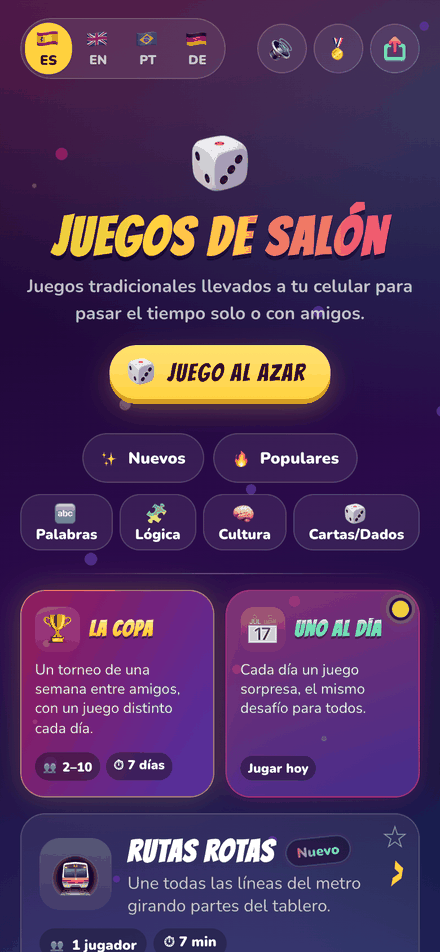
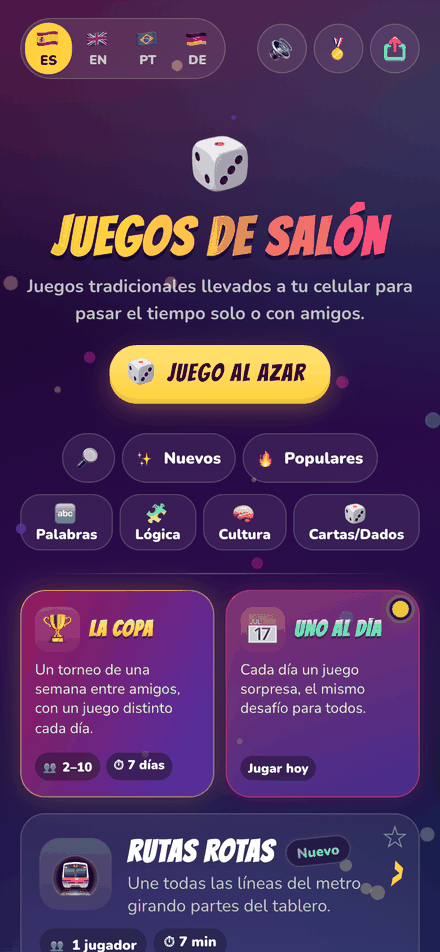
Docs for D-403: search out of the lab in README, decisions, e2e guide and home screenshots

diff --git a/README.md b/README.md
@@ -682,6 +682,7 @@ node public/assets/js/llegada.test.mjs
 node public/assets/js/parametros.test.mjs
 node public/assets/js/push.test.mjs
 node public/assets/js/records.test.mjs
+node public/assets/js/search.test.mjs
 node public/assets/js/splash.test.mjs
 node public/assets/js/transport/best-effort.test.mjs
 node public/assets/js/transport/cleanup.test.mjs
@@ -699,7 +700,6 @@ node public/cup/planilla.test.mjs
 node public/cup/reportes.test.mjs
 node public/cup/store.test.mjs
 node public/labs/code/engine-palabra.test.mjs
-node public/labs/home/search.test.mjs
 node public/panel/adapta.test.mjs
 node public/panel/aggregate.test.mjs
 node public/panel/copas.test.mjs
@@ -841,7 +841,7 @@ public/                     The site (juegosdesalon.cl/): the only folder that g
   today/                      One a Day: today's game, your streak, a calendar and how you do in each game (D-230)
   panel/                      Private owner dashboard by domain: summary, group, individual, The Cup, Uno al día, users, traffic and health, with a page per cup, game and room; dominios.js holds the pure accounts (Google sign-in; see docs/PANEL.md)
   assets/css/                 Shared styles: base.css (party theme), linea.css (timeline), teclado.css (keypad), ranking.css (leaderboards)
-  assets/js/                  Shared modules: games.js (game registry), i18n.js (ES/EN/PT/DE), labs-idioma.js (a new language in the lab, D-191), labs-puerta.js (the lab's door: without a key from the owner, one per person, /labs/ sends you to the menu, D-281, D-284), lab-access.js (whether this visitor holds a lab key: what is in development turns on only for them, D-395), ui.js, sound.js, compartir.js (everything shared, D-165), parametros.js (the URL parameters, in English, with the old Spanish names as aliases, D-266), compartir-portada.js (the home-page share sheet, with the promo video, in the languages that have one, D-253, D-254), handoff.js, chat.js, session.js, arrastre.js (drag and drop), teclado.js, cuenta-regresiva.js (the 3, 2, 1, Let's go! before playing, shared by the Cup and the lab, D-105), azar.js, dado3d.js and llegada.js (Random game: the die, which stays on screen until the game is drawn, D-237), frases.js, records.js + jugador.js + ranking.js (players and leaderboards, D-212; jugador-firebase.js and jugador-local.js are their stores), instalable.js (registers the service worker, D-221), instalar.js (the home-page bubble that invites to add the app to the home screen, D-232), favoritos.js (the home-page favorites, kept in the browser, D-238), push.js + vapid.js (phone notifications: subscribing, D-223), uno-al-dia.js + uno-al-dia-ui.js + uno-al-dia-red.js + uno-al-dia-avisos.js (One a Day: a daily game, the same for everyone, with a streak, freezes, leaderboards, invitations and reminders; D-230), fin.js (the exits of every result screen, the same words in every game, C-19, D-343), notification-sheets.js (the texts of the sheets that help turn notifications on, shared by the Cup and One a Day, D-377), rng.js (the seeded random generator every deck, board and day comes from, D-378), buzon.js + buzon-form.js (the "💬 Sugerencias y comentarios" inbox at the end of every game and in the home footer; the form loads only on tap, D-341), splash.js (the promotional window over the home page, one campaign at a time and off by default, turned on with tools/agents/splash.mjs, D-351), and vigia.js, a classic script (not a module) that every page loads first to report load failures, errors and start-up time to the dashboard (D-251)
+  assets/js/                  Shared modules: games.js (game registry), i18n.js (ES/EN/PT/DE), labs-idioma.js (a new language in the lab, D-191), labs-puerta.js (the lab's door: without a key from the owner, one per person, /labs/ sends you to the menu, D-281, D-284), lab-access.js (whether this visitor holds a lab key: what is in development turns on only for them, D-395), ui.js, sound.js, compartir.js (everything shared, D-165), parametros.js (the URL parameters, in English, with the old Spanish names as aliases, D-266), compartir-portada.js (the home-page share sheet, with the promo video, in the languages that have one, D-253, D-254), handoff.js, chat.js, session.js, arrastre.js (drag and drop), teclado.js, cuenta-regresiva.js (the 3, 2, 1, Let's go! before playing, shared by the Cup and the lab, D-105), azar.js, dado3d.js and llegada.js (Random game: the die, which stays on screen until the game is drawn, D-237), frases.js, records.js + jugador.js + ranking.js (players and leaderboards, D-212; jugador-firebase.js and jugador-local.js are their stores), instalable.js (registers the service worker, D-221), instalar.js (the home-page bubble that invites to add the app to the home screen, D-232), favoritos.js (the home-page favorites, kept in the browser, D-238), push.js + vapid.js (phone notifications: subscribing, D-223), uno-al-dia.js + uno-al-dia-ui.js + uno-al-dia-red.js + uno-al-dia-avisos.js (One a Day: a daily game, the same for everyone, with a streak, freezes, leaderboards, invitations and reminders; D-230), fin.js (the exits of every result screen, the same words in every game, C-19, D-343), notification-sheets.js (the texts of the sheets that help turn notifications on, shared by the Cup and One a Day, D-377), rng.js (the seeded random generator every deck, board and day comes from, D-378), buzon.js + buzon-form.js (the "💬 Sugerencias y comentarios" inbox at the end of every game and in the home footer; the form loads only on tap, D-341), splash.js (the promotional window over the home page, one campaign at a time and off by default, turned on with tools/agents/splash.mjs, D-351), search.js (the home page's 🔎 search: a pill in the filter row that opens a field and a dropdown of games, found by name, tagline or keyword, D-387, D-390, out of the lab for everyone in D-403), and vigia.js, a classic script (not a module) that every page loads first to report load failures, errors and start-up time to the dashboard (D-251)
   assets/js/transport/        Transports: local (same phone), firebase (room) and stats (usage signals), with the room's helpers: errors.js (waiting for the connection, timeouts and error texts), ratelimit.js (rooms per phone, D-41), cleanup.js (expired rooms, D-39), dispose.js (leaving on purpose, D-50) and best-effort.js (the writes nobody waits for, so a resend after a reconnect is not a failure, D-320)
   assets/og/                  The 1200×630 images shown when a link is shared
   manifest.webmanifest        PWA manifest (installable on the home screen), one per language (manifest.en.webmanifest …) so the app is named in the player's language (D-222); its PNG icons are in assets/icons/

diff --git a/tools/e2e/README.md b/tools/e2e/README.md
@@ -227,7 +227,7 @@ node tools/e2e/contact-sheet.mjs cuarto-rey --out /tmp/contact-sheet
 | `cup-games/languages.mjs` | La Copa's standalone games in all languages: each screen in `paths.mjs` against the Spanish one (D-199) |
 | `home/dice.mjs` | 🎲 Juego al azar with the 🎲 Cartas/Dados filter on: it still lands on games of every kind, and never on Cuarto Rey nor La Copa (D-188, D-374); back on the home page before the game loaded, no dice is left over it and 🎲 rolls at once (D-375) |
 | `home/lab.mjs` | The lab's three groups, with the home page experiments card folded in La Bodega, and the home page's experiments bar (D-361, D-363, D-369, D-372): `/labs/home/` landing on the real home page with the bar, the filters sticking on scroll, the language, no bar for players |
-| `home/search.mjs` | The home page's search, a lab experiment (`?search`, D-387, D-390, D-393, D-396): hidden for players, and without a lab key `?search` shows the plain home page (D-395); the 🔎 pill first in the filter row, left of ⭐ Favoritos (D-396), which fits at 320 px; tapped, the field takes that row; the dropdown names up to five games with the word that found them while the list stays put; "Ver los n juegos" filters the list; nothing found; ✕ brings the pills back; a suggestion opens its game; ↓ ↓ Enter opens the second suggestion, ↑ wraps to "see them all" and Enter filters, the mouse over an option selects it, and the first Escape folds the dropdown while the second closes the search |
+| `home/search.mjs` | The home page's search (D-387, D-390, D-393, D-396), for every player since D-403: shown without `?search` and without a lab key; the 🔎 pill first in the filter row, left of ⭐ Favoritos (D-396), which fits at 320 px; tapped, the field takes that row; the dropdown names up to five games with the word that found them while the list stays put; "Ver los n juegos" filters the list; nothing found; ✕ brings the pills back; a suggestion opens its game; ↓ ↓ Enter opens the second suggestion, ↑ wraps to "see them all" and Enter filters, the mouse over an option selects it, and the first Escape folds the dropdown while the second closes the search |
 | `home/popular.mjs` | What players see since D-369: the 🔥 Popular label on three cards (not La Copa nor "New", in German too), the ✨ Nuevos / 🔥 Populares chips above the types in four languages at 320 px and their filtering, ⭐ Favoritos in that row and centered, the app's name on the floating menu and its tap, the space under the floating filters, and the menu still floating after a tap on a short result until the player scrolls up (D-371) |
 | `splash/languages.mjs` | Every splash campaign in all languages: each one as `?splash=<id>` against the Spanish one (D-199, D-355; a campaign that is not on needs a lab key, which localhost always counts as, D-395) |
 

diff --git a/docs/DECISIONS.md b/docs/DECISIONS.md
@@ -432,10 +432,10 @@ Where today's rule is and which decisions explain it: those in force that still 
 | [D-384](decisions/D-384.md) | A game whose speed scores, and that has no countdown, shows the elapsed time | current |
 | [D-385](decisions/D-385.md) | Pips: the rule's diamond inside its cell, the zone lights up, and dominoes drag | current |
 | [D-386](decisions/D-386.md) | Pips: boards that do not all add up | current |
-| [D-387](decisions/D-387.md) | Home page search box, a lab experiment | amended by D-390 |
+| [D-387](decisions/D-387.md) | Home page search box, a lab experiment | amended by D-390, D-403 |
 | [D-388](decisions/D-388.md) | A change to the home page alone runs the home page's scripts, not the games' | amended by D-391 |
 | [D-389](decisions/D-389.md) | The home page's experiments, the splash among them, in one lab card with checkboxes | amended by D-399 |
-| [D-390](decisions/D-390.md) | The home page's search: a 🔎 pill and a dropdown of games | amended by D-393, D-396 |
+| [D-390](decisions/D-390.md) | The home page's search: a 🔎 pill and a dropdown of games | amended by D-393, D-396, D-403 |
 | [D-391](decisions/D-391.md) | The end-to-end scope never falls back to "everything" without a test saying so | amended by D-392 |
 | [D-392](decisions/D-392.md) | A push to a PR tests only what changed since the PR last passed | current |
 | [D-393](decisions/D-393.md) | The home page's search on a computer: ↓ ↑ Enter and Escape in the dropdown | current |

diff --git a/docs/decisions/D-387.md b/docs/decisions/D-387.md
@@ -1,5 +1,5 @@
 ## D-387 · Home page search box, a lab experiment
-**Date:** 2026-10-20 · **Status:** amended by D-390 · **Relation:** extends D-363 (a new switch on the home page's lab bar) · **Topics:** home
+**Date:** 2026-10-20 · **Status:** amended by D-390, D-403 · **Relation:** extends D-363 (a new switch on the home page's lab bar) · **Topics:** home
 **Context:** the owner asked to try, in the lab, a search bar on the home page that loads results while
 typing, by the game's name or by what it has: "lógica", "dados", "toque", "puente".
 **Decision:** `?search` draws a box at the top of the filters (`public/labs/home/search.js`). Each typed

diff --git a/docs/decisions/D-390.md b/docs/decisions/D-390.md
@@ -1,5 +1,5 @@
 ## D-390 · The home page's search: a 🔎 pill and a dropdown of games
-**Date:** 2026-10-20 · **Status:** amended by D-393, D-396 · **Relation:** amends D-387 (the box on its own line, filtering while typing) · **Topics:** home
+**Date:** 2026-10-20 · **Status:** amended by D-393, D-396, D-403 · **Relation:** amends D-387 (the box on its own line, filtering while typing) · **Topics:** home
 **Context:** the owner asked that the search not take a whole line of the filters, but be a 🔎 pill that
 opens in place of the pills above, and that it find games the way a shop's autocomplete does, without
 moving the list on the page.
